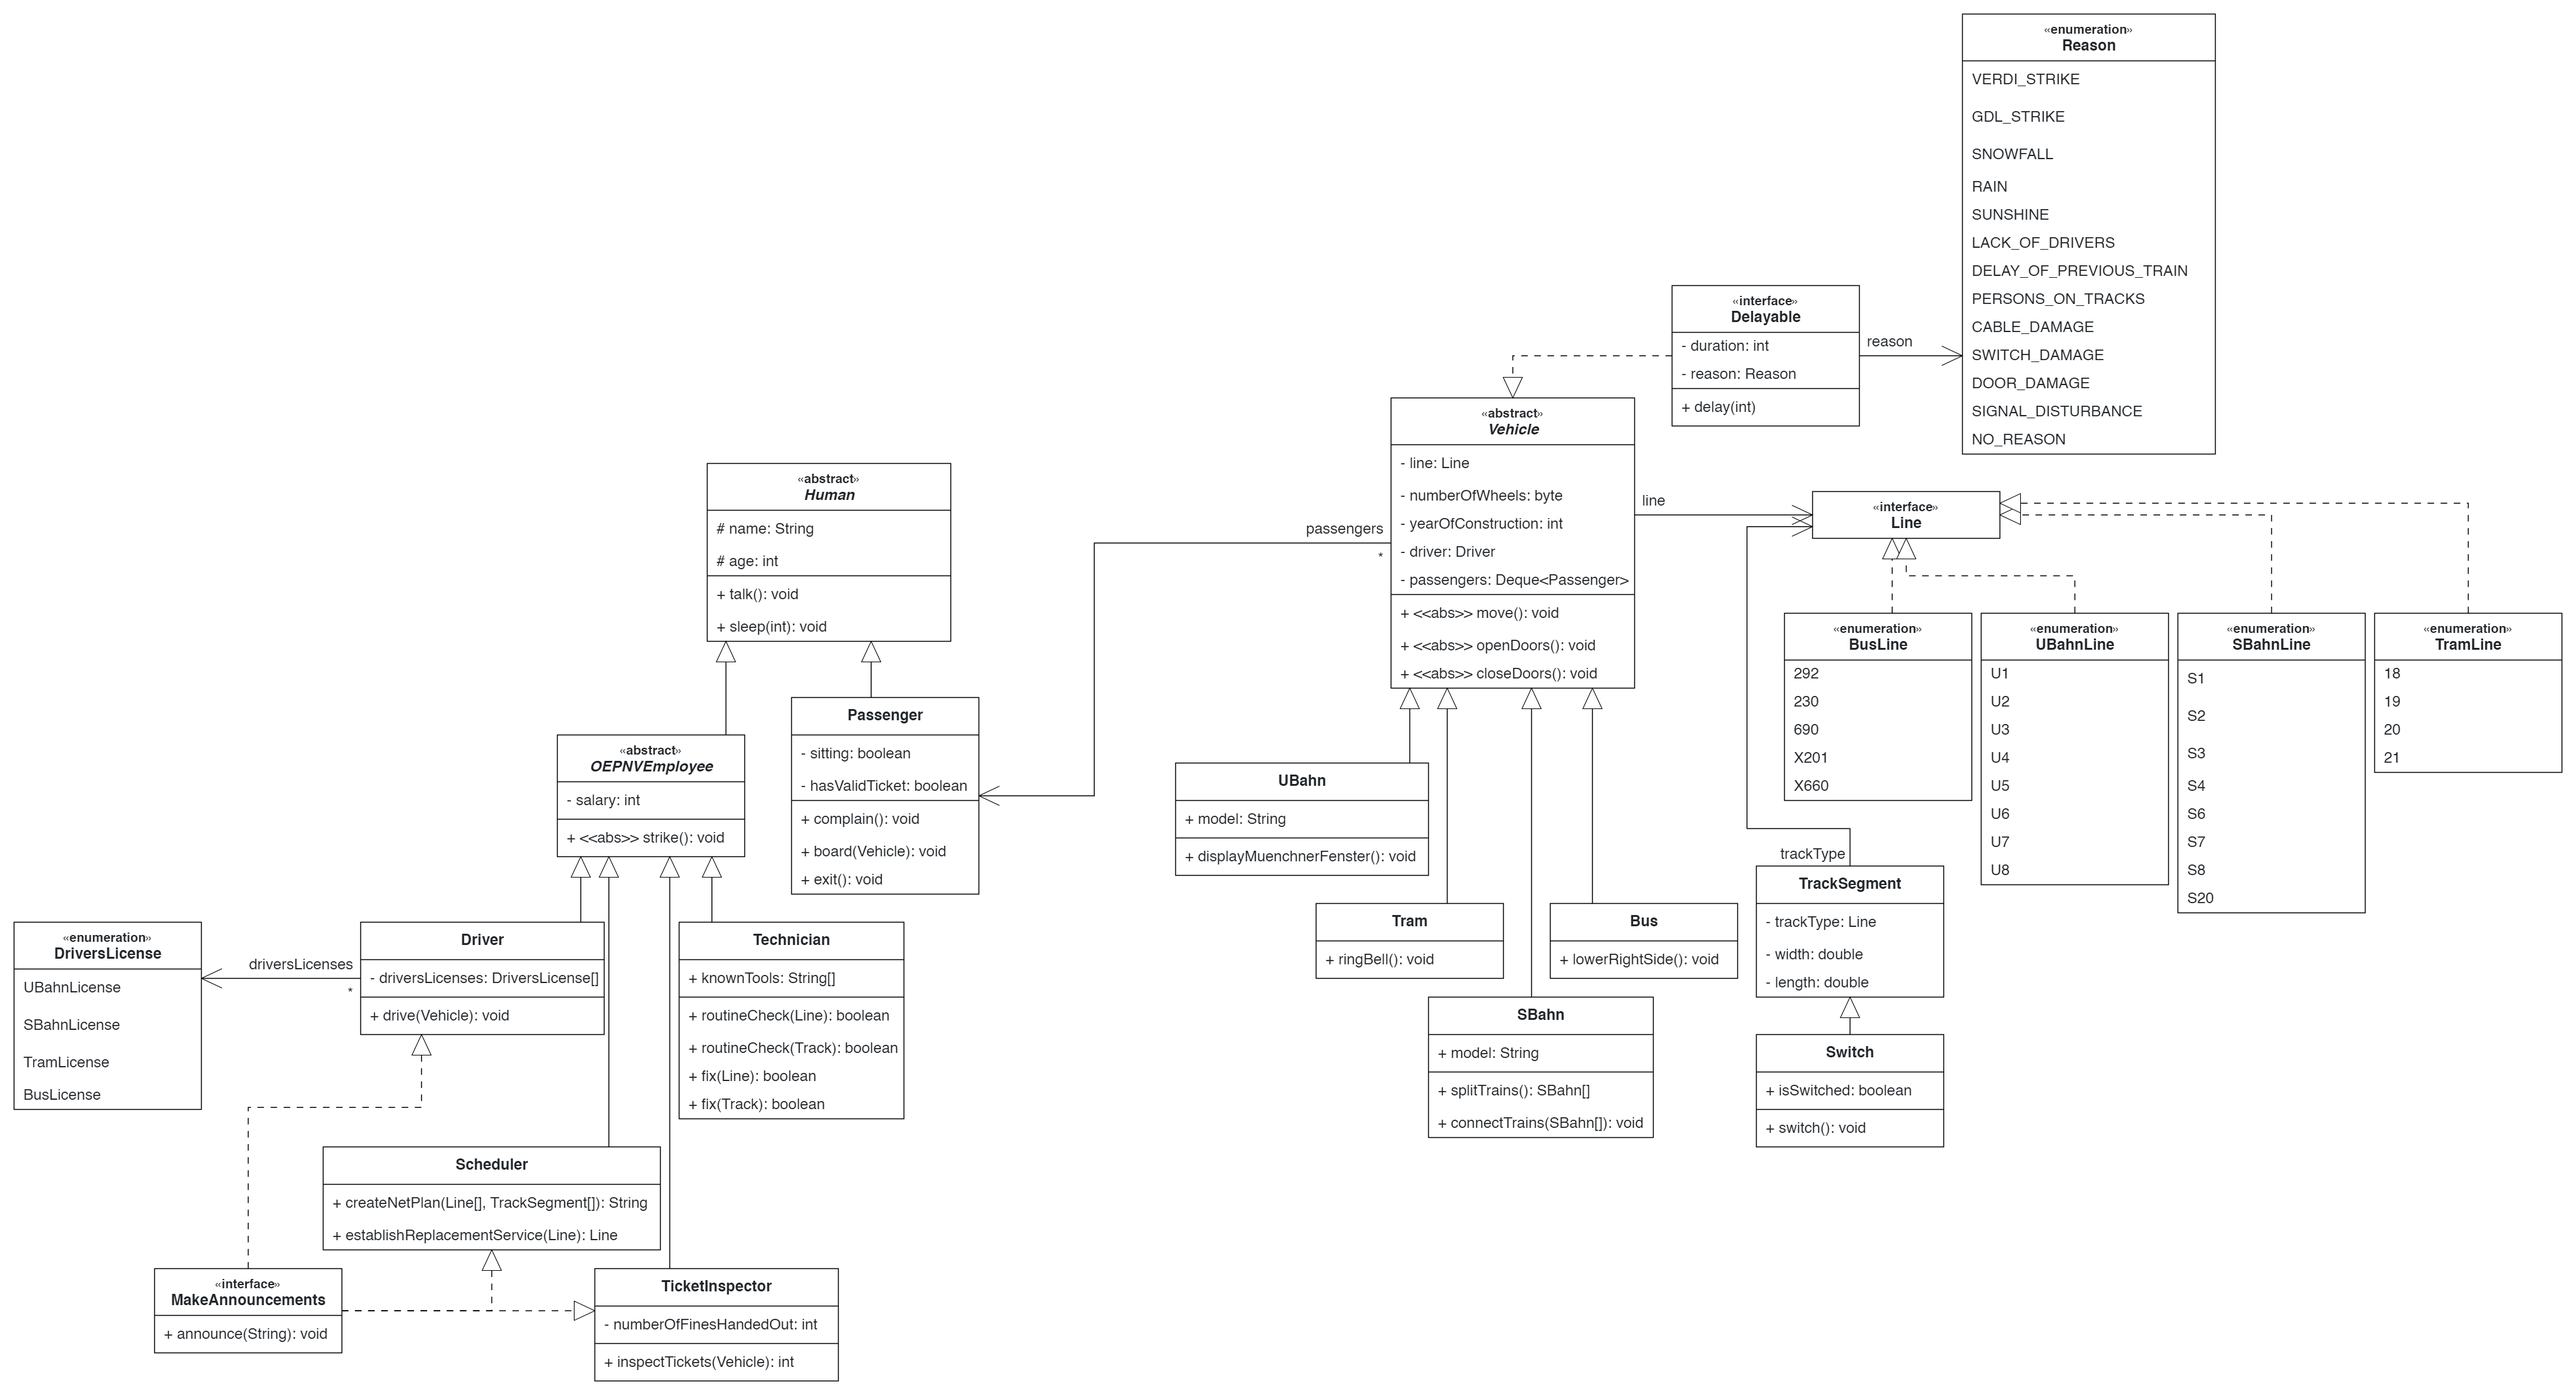
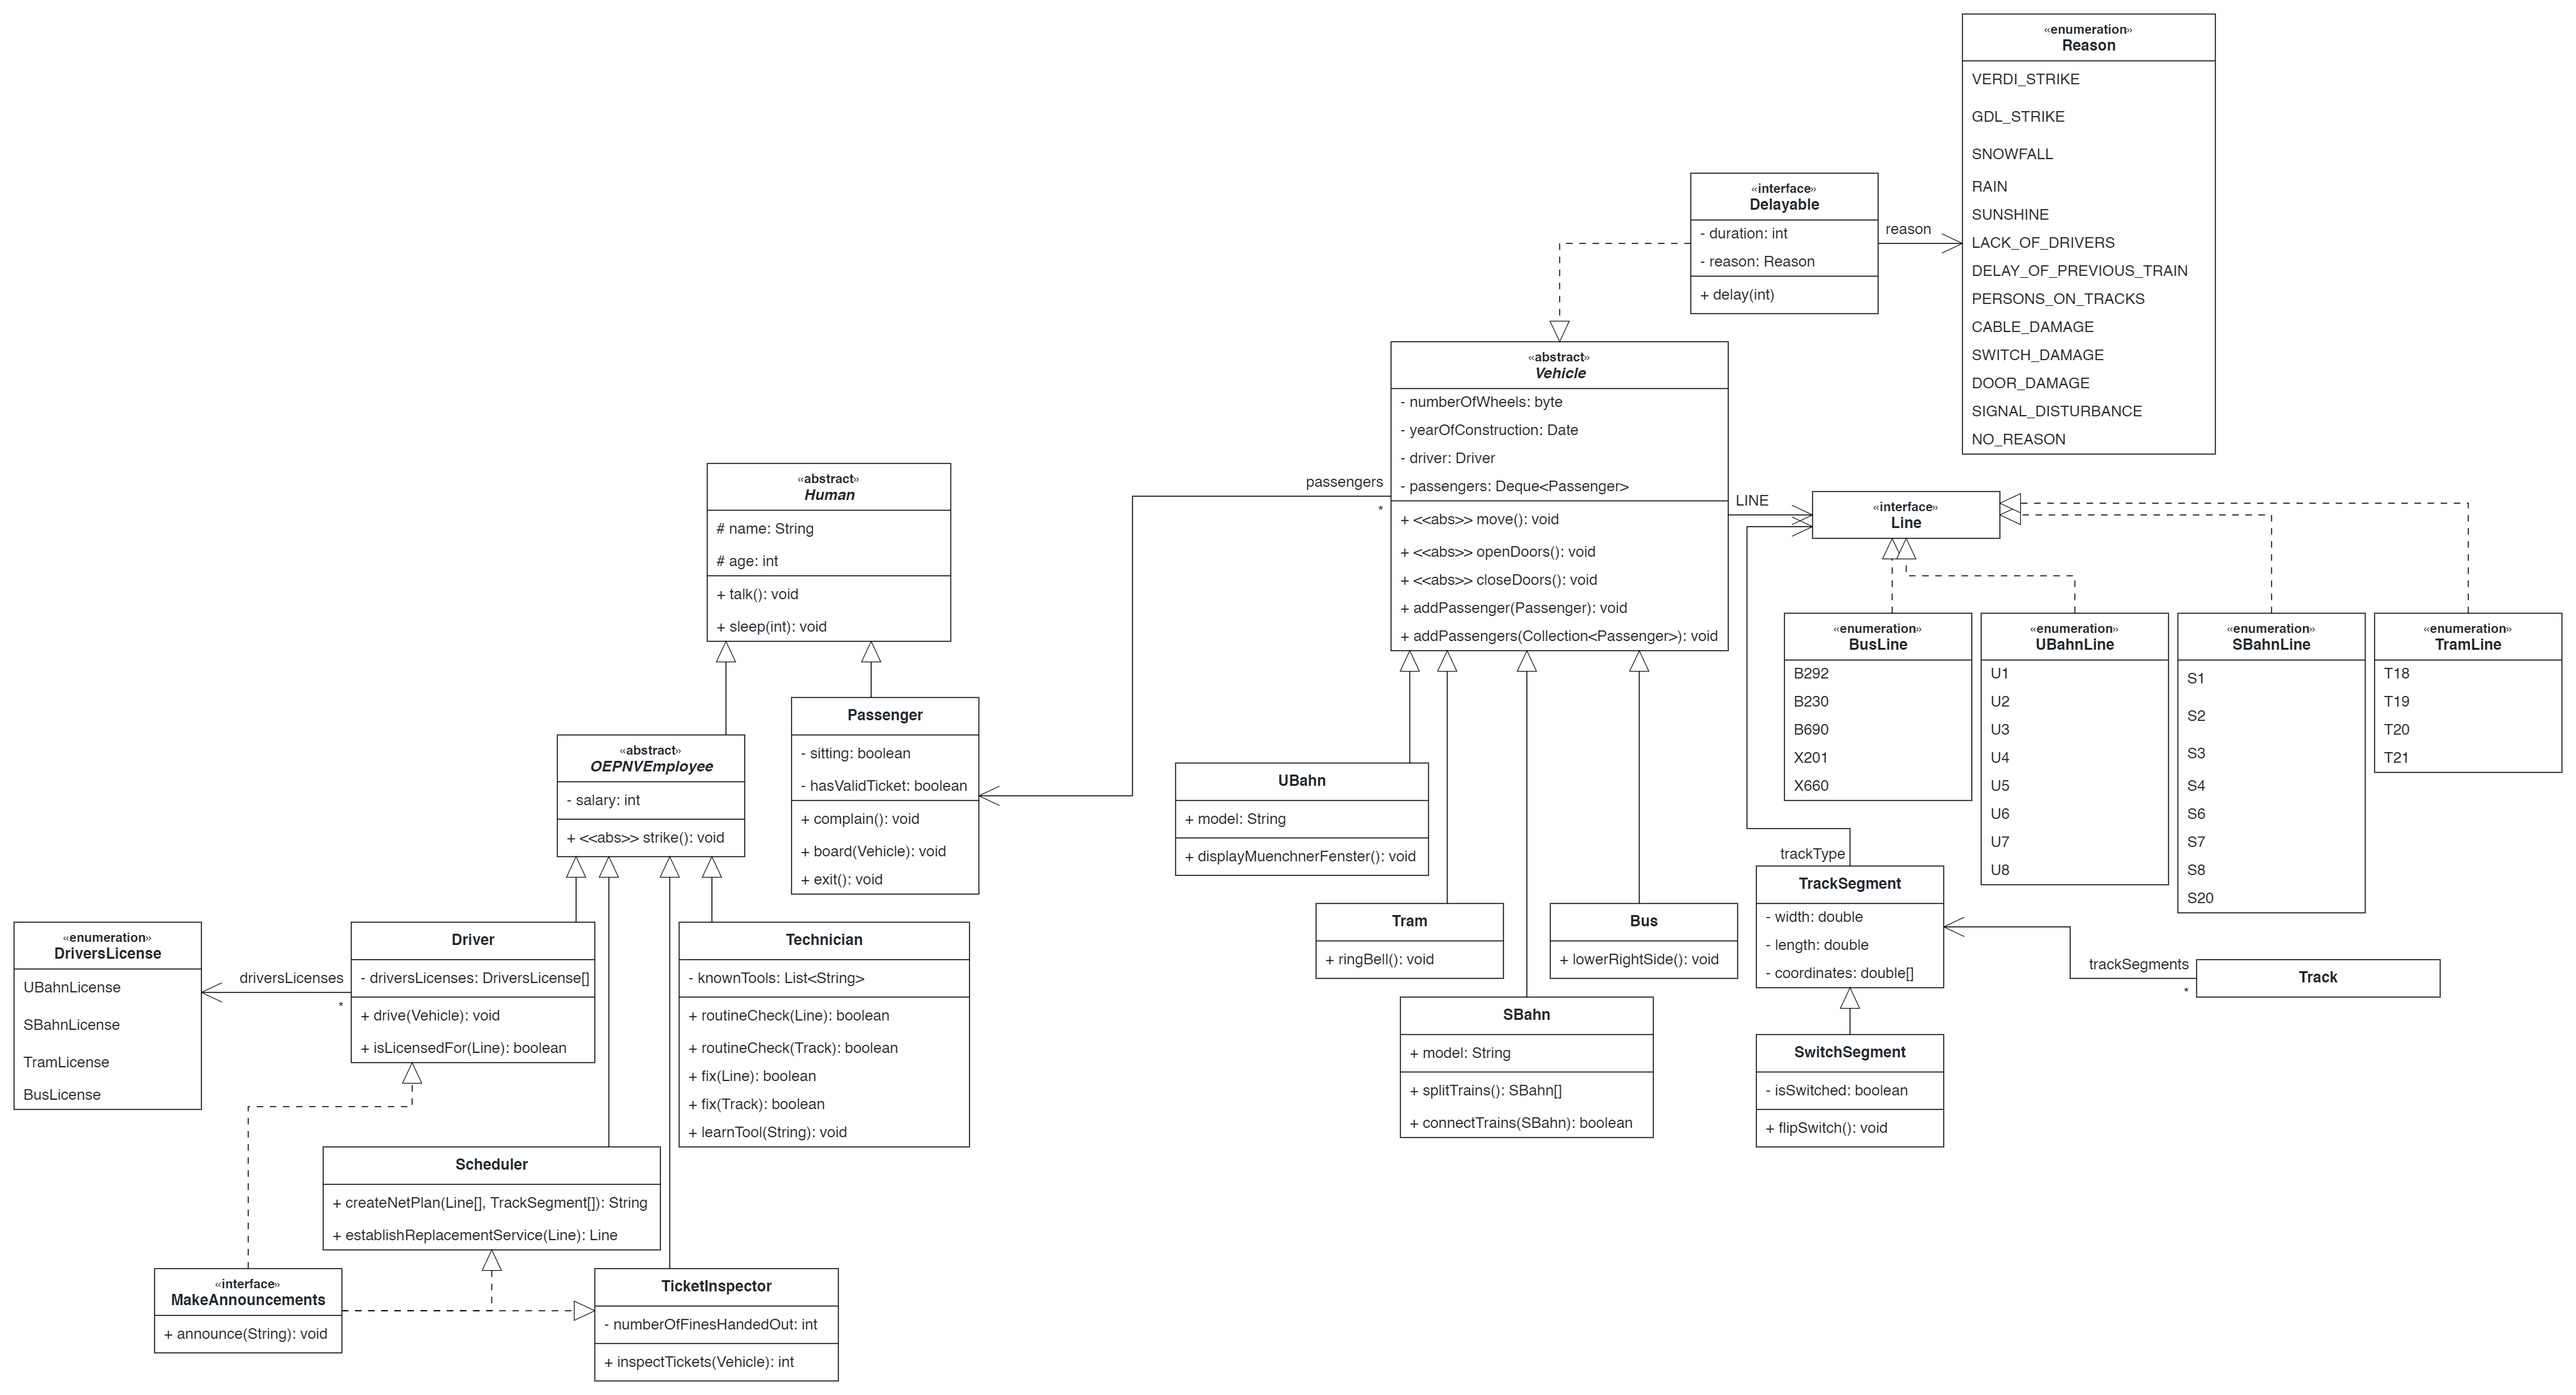
first simple finish of f04 implementation

diff --git a/F04 Münchner ÖPNV/Solution 2 - UML in Java/MuenchenOEPNV/src/Vehicle.java b/F04 Münchner ÖPNV/Solution 2 - UML in Java/MuenchenOEPNV/src/Vehicle.java
@@ -1,0 +1,54 @@
+import java.util.Collection;
+import java.util.Date;
+import java.util.Deque;
+import java.util.LinkedList;
+
+public abstract class Vehicle implements Delayable {
+    private final Line LINE;
+    private byte numberOfWheels;
+    private Date yearOfConstruction;
+    private Driver driver;
+    private Deque<Passenger> passengers;
+
+    public Vehicle(Line line) {
+        this.LINE = line;
+        this.numberOfWheels = (byte)(LINE instanceof BusLine ? 6 : LINE instanceof SBahnLine ? 28 : 16);
+        this.yearOfConstruction = new Date();   // initializes Date with the current date
+        this.passengers = new LinkedList<>();
+    }
+
+    @Override
+    public void delay(int duration, Reason reason) {
+        driver.announce("Due to " + reason.toString() + ", we will be delayed by " + duration + " minutes.");
+    }
+
+    public abstract void move();
+    public abstract void openDoors();
+    public abstract void closeDoors();
+
+    public Deque<Passenger> getPassengers() {
+        return passengers;
+    }
+
+    public Driver getDriver() {
+        return driver;
+    }
+
+    public Line getLINE() {
+        return LINE;
+    }
+
+    public void setDriver(Driver driver) {
+        this.driver = driver;
+    }
+
+    public void addPassenger(Passenger p) {
+        passengers.add(p);
+    }
+
+    public void addPassengers(Collection<Passenger> ps) {
+        for (Passenger p : ps) {
+            addPassenger(p);
+        }
+    }
+}

diff --git a/F04 Münchner ÖPNV/Solution 2 - UML in Java/MuenchenOEPNV/src/SBahn.java b/F04 Münchner ÖPNV/Solution 2 - UML in Java/MuenchenOEPNV/src/SBahn.java
@@ -1,0 +1,41 @@
+import java.util.Objects;
+
+public class SBahn extends Vehicle {
+    public String model;
+
+    public SBahn(Line line, String model) {
+        super(line);
+        this.model = model;
+    }
+
+    @Override
+    public void move() {
+        System.out.println("S-Bahn vrooms.");
+    }
+
+    @Override
+    public void openDoors() {
+        System.out.println("*beeeeeeeeep*. *gears moving*");
+    }
+
+    @Override
+    public void closeDoors() {
+        System.out.println("*bep* *bep* *bep* *bep* *bep* *bep*");
+    }
+
+    public SBahn[] splitTrains() {
+        return new SBahn[]{new SBahn(super.getLINE(), model), new SBahn(super.getLINE(), model)};
+    }
+
+    public boolean connectTrains(SBahn otherSBahn) {
+        if (otherSBahn == null) {
+            System.out.println("To connect SBahns, there need to be exactly two.");
+            return false;
+        }
+        if (this.getLINE() != otherSBahn.getLINE() || !Objects.equals(this.model, otherSBahn.model)) {
+            System.out.println("SBahns need to be on the same line and have the same model to connect.");
+            return false;
+        }
+        return true;
+    }
+}

diff --git a/F04 Münchner ÖPNV/Solution 2 - UML in Java/MuenchenOEPNV/src/Technician.java b/F04 Münchner ÖPNV/Solution 2 - UML in Java/MuenchenOEPNV/src/Technician.java
@@ -1,0 +1,43 @@
+import java.sql.Array;
+import java.util.ArrayList;
+import java.util.List;
+
+public class Technician extends OEPNVEmployee {
+    private List<String> knownTools;
+
+    public Technician(String name, int age, int salary, List<String> alreadyKnownTools) {
+        super(name, age, salary);
+        knownTools = new ArrayList<>(alreadyKnownTools);
+    }
+
+    public boolean routineCheck(Line l) {
+        return false;
+    }
+
+    public boolean routineCheck(Track t) {
+        return true;
+    }
+
+    public boolean fix(Line l) {
+        System.out.println("*Clong*, *clong*.");
+        return true;
+    }
+
+    public boolean fix(Track t) {
+        System.out.println("*Clong*, *clong* in the distance.");
+        return true;
+    }
+
+    public List<String> getKnownTools() {
+        return knownTools;
+    }
+
+    public void learnTool(String tool) {
+        knownTools.add(tool);
+    }
+
+    @Override
+    public void strike() {
+        System.out.println("Today, I'm fixing my pay, tomorrow we can talk about that defect line/track.");
+    }
+}

diff --git a/F04 Münchner ÖPNV/Solution 2 - UML in Java/MuenchenOEPNV/src/TicketInspector.java b/F04 Münchner ÖPNV/Solution 2 - UML in Java/MuenchenOEPNV/src/TicketInspector.java
@@ -1,0 +1,33 @@
+public class TicketInspector extends OEPNVEmployee implements MakeAnnouncements {
+    private int numberOfFinesHandedOut;
+
+    public TicketInspector(String name, int age, int salary){
+        super(name, age, salary);
+    }
+
+    @Override
+    public void strike() {
+        System.out.println("No ticket inspection today, y'all can ride for free!");
+    }
+
+    public int inspectTickets(Vehicle v) {
+        announce("Attention everyone, this is a ticket inspection. Please keep your tickets at hand and let me take a quick look.");
+        int finesToday = 0;
+        for (Passenger p : v.getPassengers()) {
+            if (!p.hasValidTicket()) {
+                finesToday++;
+            }
+        }
+        numberOfFinesHandedOut += finesToday;
+        return finesToday;
+    }
+
+    @Override
+    public void announce(String message) {
+        MakeAnnouncements.super.announce("Ticket Inspector says: " + message);
+    }
+
+    public int getNumberOfFinesHandedOut() {
+        return numberOfFinesHandedOut;
+    }
+}

diff --git a/F04 Münchner ÖPNV/Solution 2 - UML in Java/MuenchenOEPNV/src/Driver.java b/F04 Münchner ÖPNV/Solution 2 - UML in Java/MuenchenOEPNV/src/Driver.java
@@ -1,3 +1,5 @@
+import java.util.Objects;
+
 public class Driver extends OEPNVEmployee implements MakeAnnouncements {
     private DriverLicense[] driverLicenses;
 
@@ -7,8 +9,7 @@ public class Driver extends OEPNVEmployee implements MakeAnnouncements {
     }
 
     public void drive(Vehicle v) {
-        System.out.println(name + " is now driving a " + v.line);
-        //TODO
+        System.out.println(name + " is now driving a " + v.getLINE());
     }
 
     @Override
@@ -19,5 +20,14 @@ public class Driver extends OEPNVEmployee implements MakeAnnouncements {
     @Override
     public void announce(String message) {
         System.out.println("Attention U-Bahn passengers: " + message);
+    }
+
+    public boolean isLicensedFor(Line l) {
+        for (DriverLicense dl : driverLicenses) {
+            if (Objects.equals(dl.toString().split("L")[0], l.toString().split("L")[0])) {
+                return true;
+            }
+        }
+        return false;
     }
 }

diff --git a/F04 Münchner ÖPNV/Solution 2 - UML in Java/MuenchenOEPNV/src/Scheduler.java b/F04 Münchner ÖPNV/Solution 2 - UML in Java/MuenchenOEPNV/src/Scheduler.java
@@ -18,7 +18,7 @@ public class Scheduler extends OEPNVEmployee implements MakeAnnouncements {
         for (Line l : linesInMunich) {
             sb.append(l).append(": -START- ");
             for (int i = 0; i < random.nextInt(trackSegments.length); i++) {
-                sb.append(Arrays.toString(trackSegments[i].coordinates)).append(", ");
+                sb.append(Arrays.toString(trackSegments[i].getCoordinates())).append(", ");
             }
             sb.append(" -END-\n");
         }
@@ -28,6 +28,6 @@ public class Scheduler extends OEPNVEmployee implements MakeAnnouncements {
     public Line establishReplacementService(Line l) {
         Random random = new Random();
         System.out.println("Due to a delay on line " + l + ", we will establish a bus replacement.");
-        return Bus.values()[random.nextInt(Bus.values().length)];
+        return BusLine.values()[random.nextInt(BusLine.values().length)];
     }
 }

diff --git a/F04 Münchner ÖPNV/Solution 2 - UML in Java/MuenchenOEPNV/src/UBahn.java b/F04 Münchner ÖPNV/Solution 2 - UML in Java/MuenchenOEPNV/src/UBahn.java
@@ -1,0 +1,27 @@
+public class UBahn extends Vehicle {
+    public String model;
+
+    public UBahn(Line line, String model) {
+        super(line);
+        this.model = model;
+    }
+
+    @Override
+    public void move() {
+        System.out.println("U-Bahn vrooms.");
+    }
+
+    @Override
+    public void openDoors() {
+        System.out.println(super.getLINE() + ", bitte einsteigen.");
+    }
+
+    @Override
+    public void closeDoors() {
+        System.out.println("Bitte zurückbleiben. *beep*, *beep*, *beep*");
+    }
+
+    public void displayMuenchnerFenster() {
+        System.out.println("Due to technical difficulties, we cannot show our infotainment program at the moment. We are sorry for any inconvenience caused.");
+    }
+}

diff --git a/F04 Münchner ÖPNV/Solution 2 - UML in Java/MuenchenOEPNV/src/Bus.java b/F04 Münchner ÖPNV/Solution 2 - UML in Java/MuenchenOEPNV/src/Bus.java
@@ -1,0 +1,24 @@
+public class Bus extends Vehicle {
+    public Bus(Line line) {
+        super(line);
+    }
+
+    @Override
+    public void move() {
+        System.out.println("Bus vrooms.");
+    }
+
+    @Override
+    public void openDoors() {
+        System.out.println("*pfshhh*");
+    }
+
+    @Override
+    public void closeDoors() {
+        System.out.println("*pshhhf*");
+    }
+
+    public void lowerRightSide() {
+        System.out.println("Bus lowers right side for passengers to enter.");
+    }
+}

diff --git a/F04 Münchner ÖPNV/Solution 2 - UML in Java/MuenchenOEPNV/src/Tram.java b/F04 Münchner ÖPNV/Solution 2 - UML in Java/MuenchenOEPNV/src/Tram.java
@@ -1,0 +1,24 @@
+public class Tram extends Vehicle {
+    public Tram(Line line) {
+        super(line);
+    }
+
+    @Override
+    public void move() {
+        System.out.println("Tram vrooms.");
+    }
+
+    @Override
+    public void openDoors() {
+        System.out.println("*pshhhhh*");
+    }
+
+    @Override
+    public void closeDoors() {
+        System.out.println("*beep* *beep*");
+    }
+
+    public void ringBell() {
+        System.out.println("*ring* *ring*");
+    }
+}

diff --git a/F04 Münchner ÖPNV/Solution 2 - UML in Java/MuenchenOEPNV/src/TrackSegment.java b/F04 Münchner ÖPNV/Solution 2 - UML in Java/MuenchenOEPNV/src/TrackSegment.java
@@ -1,0 +1,17 @@
+public class TrackSegment {
+    private Line trackType;
+    private double width;
+    private double length;
+    private double[] coordinates;
+
+    public TrackSegment(Line trackType, double width, double length, double[] coordinates) {
+        this.trackType = trackType;
+        this.width = width;
+        this.length = length;
+        this.coordinates = coordinates;
+    }
+
+    public double[] getCoordinates() {
+        return coordinates;
+    }
+}

diff --git a/F04 Münchner ÖPNV/Solution 2 - UML in Java/MuenchenOEPNV/src/SwitchSegment.java b/F04 Münchner ÖPNV/Solution 2 - UML in Java/MuenchenOEPNV/src/SwitchSegment.java
@@ -1,0 +1,15 @@
+public class SwitchSegment extends TrackSegment {
+    private boolean isSwitched;
+
+    public SwitchSegment(Line trackType, double width, double length, double[] coordinates) {
+        super(trackType, width, length, coordinates);
+    }
+
+    public void flipSwitch() {
+        isSwitched = !isSwitched;
+    }
+
+    public boolean isSwitched() {
+        return isSwitched;
+    }
+}

diff --git a/F04 Münchner ÖPNV/Solution 2 - UML in Java/MuenchenOEPNV/src/Track.java b/F04 Münchner ÖPNV/Solution 2 - UML in Java/MuenchenOEPNV/src/Track.java
@@ -1,0 +1,11 @@
+public class Track {
+    private TrackSegment[] trackSegments;
+
+    public TrackSegment[] getTrackSegments() {
+        return trackSegments;
+    }
+
+    public void setTrackSegments(TrackSegment[] trackSegments) {
+        this.trackSegments = trackSegments;
+    }
+}
